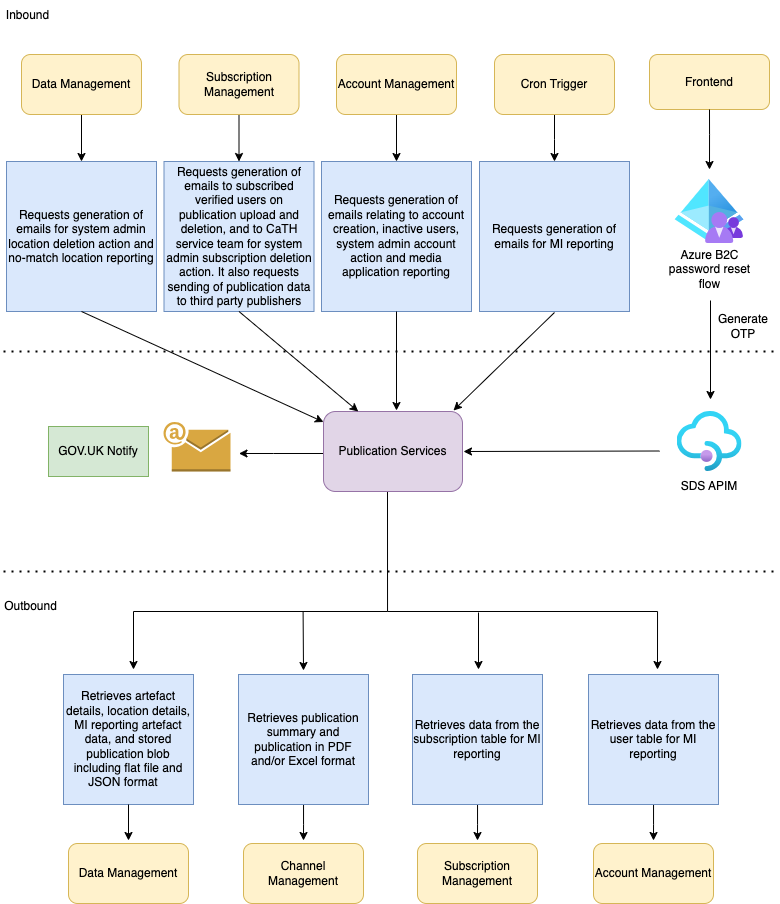
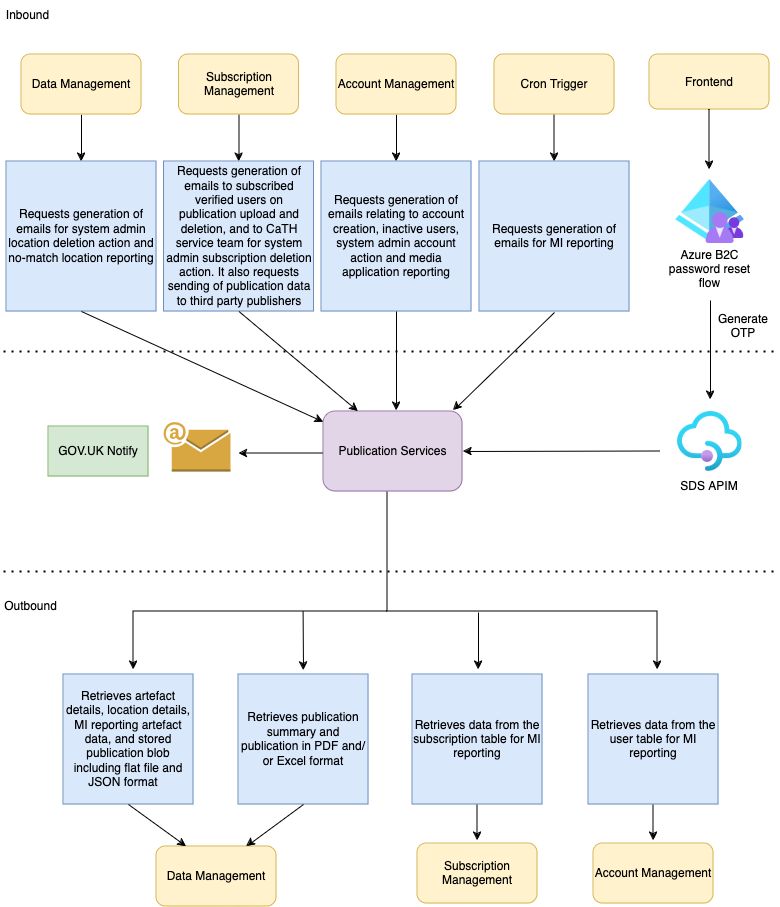
PUB-2359 Removed calls to channel-management (#447)
* Removed calls to channel-management

* Bumping chart version/ fixing aliases

* Fixed checkstyle

* Update readme diagram

* Update format of publication file endpoints

* Bumping chart version/ fixing aliases

---------

diff --git a/src/test/java/uk/gov/hmcts/reform/pip/publication/services/service/DataManagementServiceTest.java b/src/test/java/uk/gov/hmcts/reform/pip/publication/services/service/DataManagementServiceTest.java
@@ -1,5 +1,8 @@
 package uk.gov.hmcts.reform.pip.publication.services.service;
 
+import com.fasterxml.jackson.core.JsonProcessingException;
+import com.fasterxml.jackson.databind.ObjectMapper;
+import com.fasterxml.jackson.databind.ObjectWriter;
 import okhttp3.mockwebserver.MockResponse;
 import okhttp3.mockwebserver.MockWebServer;
 import org.apache.http.entity.ContentType;
@@ -13,6 +16,7 @@ import org.springframework.test.context.ActiveProfiles;
 import org.springframework.web.reactive.function.client.WebClient;
 import uk.gov.hmcts.reform.pip.model.location.Location;
 import uk.gov.hmcts.reform.pip.model.publication.Artefact;
+import uk.gov.hmcts.reform.pip.model.publication.FileType;
 import uk.gov.hmcts.reform.pip.publication.services.Application;
 import uk.gov.hmcts.reform.pip.publication.services.configuration.WebClientTestConfiguration;
 import uk.gov.hmcts.reform.pip.publication.services.errorhandling.exceptions.ServiceToServiceException;
@@ -30,7 +34,6 @@ import static org.junit.jupiter.api.Assertions.assertTrue;
 @DirtiesContext
 @ActiveProfiles("test")
 class DataManagementServiceTest extends RedisConfigurationTestBase {
-
     private static final String RESPONSE_BODY = "responseBody";
     private static final String CONTENT_TYPE_HEADER = "Content-Type";
     private static final String EXCEPTION_THROWN_MESSAGE = "Expected exception has not been thrown";
@@ -43,6 +46,10 @@ class DataManagementServiceTest extends RedisConfigurationTestBase {
     private static final String NO_STATUS_CODE_IN_EXCEPTION = "Exception response does not contain the status code in"
         + " the message";
     private static final String NO_EXPECTED_EXCEPTION = "Expected exception has not been thrown.";
+    private static final String HELLO = "hello";
+
+    private final ObjectWriter ow = new ObjectMapper().findAndRegisterModules().writer().withDefaultPrettyPrinter();
+
 
     @Autowired
     WebClient webClient;
@@ -183,6 +190,69 @@ class DataManagementServiceTest extends RedisConfigurationTestBase {
                                                        NO_EXPECTED_EXCEPTION);
         assertTrue(notifyException.getMessage().contains(NOT_FOUND),
                    NO_STATUS_CODE_IN_EXCEPTION);
+    }
+
+    @Test
+    void testGetArtefactSummary() {
+        mockDataManagementEndpoint.enqueue(new MockResponse().addHeader(
+            "Content-Type",
+            com.azure.core.http.ContentType.APPLICATION_JSON
+        ).setBody(HELLO));
+
+        String returnedString = dataManagementService.getArtefactSummary(UUID.randomUUID());
+
+        assertEquals(HELLO, returnedString, "Return does not match");
+    }
+
+    @Test
+    void testGetArtefactSummaryError() {
+        mockDataManagementEndpoint.enqueue(new MockResponse().setResponseCode(404));
+
+        UUID artefactId = UUID.randomUUID();
+        ServiceToServiceException exception = assertThrows(ServiceToServiceException.class,
+                                                           () -> dataManagementService.getArtefactSummary(artefactId),
+                                                           "Exception");
+
+        assertTrue(exception.getMessage().contains("404"), "Exception didn't contain correct message");
+    }
+
+    @Test
+    void testGetArtefactFile() throws JsonProcessingException {
+        mockDataManagementEndpoint.enqueue(
+            new MockResponse()
+                .addHeader("Content-Type", com.azure.core.http.ContentType.APPLICATION_JSON)
+                .setBody(ow.writeValueAsString(HELLO))
+        );
+
+        String response = dataManagementService.getArtefactFile(UUID.randomUUID(), FileType.PDF, true);
+        assertTrue(response.length() > 0, "Response doesn't exist");
+    }
+
+    @Test
+    void testGetArtefactFileNotFound() {
+        mockDataManagementEndpoint.enqueue(new MockResponse().setResponseCode(404));
+
+        String response = dataManagementService.getArtefactFile(UUID.randomUUID(), FileType.EXCEL, false);
+        assertEquals(0, response.length(), "Response not empty");
+    }
+
+    @Test
+    void testGetArtefactFileTooLarge() {
+        mockDataManagementEndpoint.enqueue(new MockResponse().setResponseCode(413));
+
+        String response = dataManagementService.getArtefactFile(UUID.randomUUID(), FileType.PDF, false);
+        assertEquals(0, response.length(), "Response not empty");
+    }
+
+    @Test
+    void testGetArtefactFileError() {
+        mockDataManagementEndpoint.enqueue(new MockResponse().setResponseCode(500));
+
+        UUID artefactId = UUID.randomUUID();
+        ServiceToServiceException exception = assertThrows(ServiceToServiceException.class, () ->
+            dataManagementService.getArtefactFile(artefactId, FileType.PDF, false), "Exception");
+
+        assertTrue(exception.getMessage().contains("500"), "Exception didn't contain correct message");
     }
 
     @Test

diff --git a/src/main/java/uk/gov/hmcts/reform/pip/publication/services/service/DataManagementService.java b/src/main/java/uk/gov/hmcts/reform/pip/publication/services/service/DataManagementService.java
@@ -9,9 +9,13 @@ import org.springframework.web.reactive.function.client.WebClient;
 import org.springframework.web.reactive.function.client.WebClientResponseException;
 import uk.gov.hmcts.reform.pip.model.location.Location;
 import uk.gov.hmcts.reform.pip.model.publication.Artefact;
+import uk.gov.hmcts.reform.pip.model.publication.FileType;
 import uk.gov.hmcts.reform.pip.publication.services.errorhandling.exceptions.ServiceToServiceException;
 
 import java.util.UUID;
+
+import static org.springframework.http.HttpStatus.NOT_FOUND;
+import static org.springframework.http.HttpStatus.PAYLOAD_TOO_LARGE;
 
 @Slf4j
 @Service
@@ -20,7 +24,10 @@ public class DataManagementService {
 
     private static final String SERVICE = "Data Management";
     private static final String ADMIN_HEADER = "x-admin";
+    private static final String SYSTEM_HEADER = "x-system";
+    private static final String ADDITIONAL_PDF_HEADER = "x-additional-pdf";
     private static final String TRUE = "true";
+    private static final int MAX_FILE_SIZE = 2_000_000;
 
     @Value("${service-to-service.data-management}")
     private String url;
@@ -72,6 +79,36 @@ public class DataManagementService {
                 .accept(MediaType.APPLICATION_JSON)
                 .retrieve().bodyToMono(String.class).block();
         } catch (WebClientResponseException ex) {
+            throw new ServiceToServiceException(SERVICE, ex.getMessage());
+        }
+    }
+
+    public String getArtefactSummary(UUID artefactId) {
+        try {
+            return webClient.get().uri(String.format("%s/publication/%s/summary", url, artefactId))
+                .accept(MediaType.APPLICATION_JSON)
+                .retrieve().bodyToMono(String.class)
+                .block();
+        } catch (WebClientResponseException ex) {
+            throw new ServiceToServiceException(SERVICE, ex.getMessage());
+        }
+    }
+
+    public String getArtefactFile(UUID artefactId, FileType fileType, boolean additionalPdf) {
+        try {
+            return webClient.get()
+                .uri(String.format("%s/publication/%s/%s?maxFileSize=%s", url, artefactId, fileType, MAX_FILE_SIZE))
+                .header(SYSTEM_HEADER, TRUE)
+                .header(ADDITIONAL_PDF_HEADER, String.valueOf(additionalPdf))
+                .accept(MediaType.APPLICATION_JSON)
+                .retrieve()
+                .bodyToMono(String.class)
+                .block();
+        } catch (WebClientResponseException ex) {
+            if (NOT_FOUND.equals(ex.getStatusCode())
+                || PAYLOAD_TOO_LARGE.equals(ex.getStatusCode())) {
+                return "";
+            }
             throw new ServiceToServiceException(SERVICE, ex.getMessage());
         }
     }

diff --git a/src/test/java/uk/gov/hmcts/reform/pip/publication/services/service/ThirdPartyManagementServiceTest.java b/src/test/java/uk/gov/hmcts/reform/pip/publication/services/service/ThirdPartyManagementServiceTest.java
@@ -55,9 +55,6 @@ class ThirdPartyManagementServiceTest extends RedisConfigurationTestBase {
     private DataManagementService dataManagementService;
 
     @MockBean
-    private ChannelManagementService channelManagementService;
-
-    @MockBean
     private ThirdPartyService thirdPartyService;
 
     @BeforeAll
@@ -103,7 +100,7 @@ class ThirdPartyManagementServiceTest extends RedisConfigurationTestBase {
         when(dataManagementService.getArtefact(RAND_UUID)).thenReturn(ARTEFACT);
         when(dataManagementService.getLocation(LOCATION_ID.toString())).thenReturn(LOCATION);
         when(dataManagementService.getArtefactJsonBlob(RAND_UUID)).thenReturn(jsonPayload);
-        when(channelManagementService.getArtefactFile(eq(RAND_UUID), any(), anyBoolean())).thenReturn(base64EncodedPdf);
+        when(dataManagementService.getArtefactFile(eq(RAND_UUID), any(), anyBoolean())).thenReturn(base64EncodedPdf);
         when(thirdPartyService.handleJsonThirdPartyCall(API_DESTINATION, jsonPayload, ARTEFACT, LOCATION))
             .thenReturn(SUCCESS_REF_ID);
         when(thirdPartyService.handlePdfThirdPartyCall(API_DESTINATION, pdfInBytes, ARTEFACT, LOCATION))
@@ -116,7 +113,7 @@ class ThirdPartyManagementServiceTest extends RedisConfigurationTestBase {
         assertEquals(SUCCESS_API_SENT, thirdPartyManagementService.handleThirdParty(subscription),
                      "Api subscription with json file should return successful referenceId.");
 
-        verify(channelManagementService).getArtefactFile(RAND_UUID, FileType.PDF, expectedAdditionalPdf);
+        verify(dataManagementService).getArtefactFile(RAND_UUID, FileType.PDF, expectedAdditionalPdf);
         verify(thirdPartyService).handlePdfThirdPartyCall(API_DESTINATION, pdfInBytes, ARTEFACT, LOCATION);
     }
 
@@ -143,7 +140,7 @@ class ThirdPartyManagementServiceTest extends RedisConfigurationTestBase {
         when(dataManagementService.getArtefact(RAND_UUID)).thenReturn(ARTEFACT);
         when(dataManagementService.getLocation(LOCATION_ID.toString())).thenReturn(LOCATION);
         when(dataManagementService.getArtefactJsonBlob(RAND_UUID)).thenReturn(jsonPayload);
-        when(channelManagementService.getArtefactFile(RAND_UUID, FileType.PDF, false)).thenReturn(base64EncodedPdf);
+        when(dataManagementService.getArtefactFile(RAND_UUID, FileType.PDF, false)).thenReturn(base64EncodedPdf);
         when(thirdPartyService.handleJsonThirdPartyCall(API_DESTINATION, jsonPayload, ARTEFACT, LOCATION))
             .thenReturn(SUCCESS_REF_ID);
 

diff --git a/src/main/java/uk/gov/hmcts/reform/pip/publication/services/service/SubscriptionNotificationService.java b/src/main/java/uk/gov/hmcts/reform/pip/publication/services/service/SubscriptionNotificationService.java
@@ -27,7 +27,6 @@ import static uk.gov.hmcts.reform.pip.model.LogBuilder.writeLog;
 public class SubscriptionNotificationService {
     private final EmailService emailService;
     private final DataManagementService dataManagementService;
-    private final ChannelManagementService channelManagementService;
 
     @Value("${payload.json.max-size-in-kb}")
     private int maxPayloadSize;
@@ -36,11 +35,9 @@ public class SubscriptionNotificationService {
     private int fileRetentionWeeks;
 
     @Autowired
-    public SubscriptionNotificationService(EmailService emailService, DataManagementService dataManagementService,
-                                           ChannelManagementService channelManagementService) {
+    public SubscriptionNotificationService(EmailService emailService, DataManagementService dataManagementService) {
         this.emailService = emailService;
         this.dataManagementService = dataManagementService;
-        this.channelManagementService = channelManagementService;
     }
 
     private String flatFileSubscriptionEmailRequest(SubscriptionEmail body, Artefact artefact,
@@ -121,14 +118,14 @@ public class SubscriptionNotificationService {
 
     private String getArtefactSummary(Artefact artefact) {
         if (payloadWithinLimit(artefact.getPayloadSize())) {
-            return channelManagementService.getArtefactSummary(artefact.getArtefactId());
+            return dataManagementService.getArtefactSummary(artefact.getArtefactId());
         }
         return "";
     }
 
     private byte[] getFileBytes(Artefact artefact, FileType fileType, boolean additionalPdf) {
         if (payloadWithinLimit(artefact.getPayloadSize())) {
-            String artefactFile = channelManagementService.getArtefactFile(artefact.getArtefactId(),
+            String artefactFile = dataManagementService.getArtefactFile(artefact.getArtefactId(),
                                                                            fileType, additionalPdf);
             return Base64.getDecoder().decode(artefactFile);
         }

diff --git a/src/main/java/uk/gov/hmcts/reform/pip/publication/services/service/ThirdPartyManagementService.java b/src/main/java/uk/gov/hmcts/reform/pip/publication/services/service/ThirdPartyManagementService.java
@@ -20,17 +20,12 @@ public class ThirdPartyManagementService {
     private static final String EMPTY_SUCCESS_MESSAGE = "Successfully sent empty list to %s";
 
     private final DataManagementService dataManagementService;
-
-    private final ChannelManagementService channelManagementService;
-
     private final ThirdPartyService thirdPartyService;
 
     @Autowired
     public ThirdPartyManagementService(DataManagementService dataManagementService,
-                                       ChannelManagementService channelManagementService,
                                        ThirdPartyService thirdPartyService) {
         this.dataManagementService = dataManagementService;
-        this.channelManagementService = channelManagementService;
         this.thirdPartyService = thirdPartyService;
     }
 
@@ -79,12 +74,12 @@ public class ThirdPartyManagementService {
         boolean additionalPdf = artefact.getListType().hasAdditionalPdf()
             && artefact.getLanguage() != Language.ENGLISH;
 
-        byte[] pdf = channelManagementService.getArtefactFile(artefact.getArtefactId(), FileType.PDF, additionalPdf)
+        byte[] pdf = dataManagementService.getArtefactFile(artefact.getArtefactId(), FileType.PDF, additionalPdf)
             .getBytes();
         if (pdf.length == 0) {
             log.warn(writeLog("Empty PDF not sent to third party"));
         } else {
-            // The PDF returned from channel management is returned as Base 64.
+            // The PDF returned from data-management is returned as Base 64.
             // This is then decoded here before sending to third parties.
             log.info(writeLog(thirdPartyService.handlePdfThirdPartyCall(
                 api, Base64.decodeBase64(pdf), artefact, location)));

diff --git a/src/test/java/uk/gov/hmcts/reform/pip/publication/services/service/SubscriptionNotificationServiceTest.java b/src/test/java/uk/gov/hmcts/reform/pip/publication/services/service/SubscriptionNotificationServiceTest.java
@@ -78,9 +78,6 @@ class SubscriptionNotificationServiceTest extends RedisConfigurationTestBase {
     @MockBean
     private DataManagementService dataManagementService;
 
-    @MockBean
-    private ChannelManagementService channelManagementService;
-
     @Autowired
     private SubscriptionNotificationService notificationService;
 
@@ -113,10 +110,10 @@ class SubscriptionNotificationServiceTest extends RedisConfigurationTestBase {
         when(sendEmailResponse.getReference()).thenReturn(Optional.of(SUCCESS_REF_ID));
         when(emailService.sendEmail(any())).thenReturn(sendEmailResponse);
 
-        when(channelManagementService.getArtefactFile(ARTEFACT_ID, FileType.PDF, false)).thenReturn(FILE_CONTENT);
-        when(channelManagementService.getArtefactFile(ARTEFACT_ID, FileType.PDF, true)).thenReturn(FILE_CONTENT);
-        when(channelManagementService.getArtefactSummary(ARTEFACT_ID)).thenReturn(ARTEFACT_SUMMARY);
-        when(channelManagementService.getArtefactFile(ARTEFACT_ID, FileType.EXCEL, false)).thenReturn(FILE_CONTENT);
+        when(dataManagementService.getArtefactFile(ARTEFACT_ID, FileType.PDF, false)).thenReturn(FILE_CONTENT);
+        when(dataManagementService.getArtefactFile(ARTEFACT_ID, FileType.PDF, true)).thenReturn(FILE_CONTENT);
+        when(dataManagementService.getArtefactSummary(ARTEFACT_ID)).thenReturn(ARTEFACT_SUMMARY);
+        when(dataManagementService.getArtefactFile(ARTEFACT_ID, FileType.EXCEL, false)).thenReturn(FILE_CONTENT);
         when(dataManagementService.getArtefactFlatFile(ARTEFACT_ID)).thenReturn(ARTEFACT_FLAT_FILE);
     }
 

diff --git a/src/test/java/uk/gov/hmcts/reform/pip/publication/services/service/NotificationServiceTest.java b/src/test/java/uk/gov/hmcts/reform/pip/publication/services/service/NotificationServiceTest.java
@@ -121,9 +121,6 @@ class NotificationServiceTest extends RedisConfigurationTestBase {
     private DataManagementService dataManagementService;
 
     @MockBean
-    private ChannelManagementService channelManagementService;
-
-    @MockBean
     private FileCreationService fileCreationService;
 
     @MockBean
@@ -163,10 +160,10 @@ class NotificationServiceTest extends RedisConfigurationTestBase {
         when(dataManagementService.getArtefact(ARTEFACT_ID)).thenReturn(artefact);
         when(dataManagementService.getLocation(String.valueOf(LOCATION_ID))).thenReturn(location);
         when(dataManagementService.getArtefactFlatFile(ARTEFACT_ID)).thenReturn(ARTEFACT_FLAT_FILE);
-        when(channelManagementService.getArtefactSummary(ARTEFACT_ID)).thenReturn(ARTEFACT_SUMMARY);
-        when(channelManagementService.getArtefactFile(ARTEFACT_ID, FileType.PDF, false))
+        when(dataManagementService.getArtefactSummary(ARTEFACT_ID)).thenReturn(ARTEFACT_SUMMARY);
+        when(dataManagementService.getArtefactFile(ARTEFACT_ID, FileType.PDF, false))
             .thenReturn(FILE_CONTENT);
-        when(channelManagementService.getArtefactFile(ARTEFACT_ID, FileType.EXCEL, false))
+        when(dataManagementService.getArtefactFile(ARTEFACT_ID, FileType.EXCEL, false))
             .thenReturn(FILE_CONTENT);
     }
 

diff --git a/src/main/java/uk/gov/hmcts/reform/pip/publication/services/config/WebClientConfiguration.java b/src/main/java/uk/gov/hmcts/reform/pip/publication/services/config/WebClientConfiguration.java
@@ -29,7 +29,7 @@ import javax.net.ssl.SSLException;
 @Configuration
 @Profile("!test & !functional & !functional-rate-limit")
 public class WebClientConfiguration {
-    // Currently we allow a maximum 2MB of PDF/Excel file to be transferred from Channel-management (same as GOV.UK
+    // Currently we allow a maximum 2MB of PDF/Excel file to be transferred from data-management (same as GOV.UK
     // Notify file size constraint). The file content is sent as a Base64 encoded string which add roughly 33% space
     // overhead. Hence we increase the service-to-service size constraint to 3MB.
     private static final ExchangeStrategies STRATEGIES =  ExchangeStrategies.builder()

diff --git a/README.md b/README.md
@@ -79,20 +79,20 @@ CaTH verified users are able to add email subscriptions to new publications usin
 - `pip-publication-services` then retrieves the publication metadata from `pip-data-management` and determine whether the publication has been uploaded as a flat file or in JSON format.
 - If the publication was uploaded as a flat file, it will retrieve the uploaded file from Azure blob storage through `pip-data-management`.
 - If the publication was uploaded in JSON format and the JSON payload is less than the set limit (currently default to 2MB), it will:
-  - generate the publication summary information through `pip-channel-management`.
-  - retrieve the files in alternative publishing formats (PDF and/or Excel spreadsheet) through `pip-channel-management`. These files are pre-generated and stored in Azure blob storage during the upload process.
+  - generate the publication summary information through `pip-data-management`.
+  - retrieve the files in alternative publishing formats (PDF and/or Excel spreadsheet) through `pip-data-management`. These files are pre-generated and stored in Azure blob storage during the upload process.
 - The email will be personalised using the information above by means by placeholders. Any required files will be uploaded to GOV.UK Notify and links to download the files will be provided in the emails.
 - All the required email information will be sent to GOV.UK Notify to generate the emails for the subscribers.
 
 ### Third Party Publisher
 
-When a new publication is uploaded to CaTH, `pip-subscription-management` retrieves all the third party publishers for that publication through `pip-channel-management`. The allowed third party users (also known as `channel`) for that publication is determined using the user roles in relation to the list type being published (can be press, CFT or crime lists). It will then notify `pip-publication-services`, passing in the Artefact ID and the third party API destination, so the publication can be sent to its destination.
+When a new publication is uploaded to CaTH, `pip-subscription-management` retrieves all the third party publishers for that publication. The allowed third party users (also known as `channel`) for that publication is determined using the user roles in relation to the list type being published (can be press, CFT or crime lists). It will then notify `pip-publication-services`, passing in the Artefact ID and the third party API destination, so the publication can be sent to its destination.
 
 Currently [Courtel](https://www.courtserve.net/) is the only third party publisher configured for CaTH but the service is able to send publications to multiple third party channels if we have more publishers.
 
 If the publication was uploaded as a flat file, the same file will be retrieved from Azure blob storage through `pip-data-management`, and forwarded to Courtel in multipart/form-data format.
 
-If the publication was uploaded in JSON format, the original content will be sent to Courtel in JSON format. The service will also retrieve the stored PDF from Azure blob storage through `pip-channel-management`, and make a second call to the Courtel API attaching the PDF in multipart/form-data format.
+If the publication was uploaded in JSON format, the original content will be sent to Courtel in JSON format. The service will also retrieve the stored PDF from Azure blob storage through `pip-data-management`, and make a second call to the Courtel API attaching the PDF in multipart/form-data format.
 
 Courtel will also be notified if publications sent to them have been deleted by CaTH.
 
@@ -167,11 +167,9 @@ Below is a table of currently used environment variables for starting the servic
 | CLIENT_SECRET                     | Secret key for authentication requests to the service.                                                                                                                                                                                                             | No        |
 | ACCOUNT_MANAGEMENT_URL            | URL used for connecting to the pip-account-management service. Defaults to staging if not provided.                                                                                                                                                                | No        |
 | DATA_MANAGEMENT_URL               | URL used for connecting to the pip-data-management service. Defaults to staging if not provided.                                                                                                                                                                   | No        |
-| CHANNEL_MANAGEMENT_URL            | URL used for connecting to the pip-channel-management service. Defaults to staging if not provided.                                                                                                                                                                | No        |
 | SUBSCRIPTION_MANAGEMENT_URL       | URL used for connecting to the pip-subscription-management service. Defaults to staging if not provided.                                                                                                                                                           | No        |
 | ACCOUNT_MANAGEMENT_AZ_API         | Used as part of the `scope` parameter when requesting a token from Azure. Used for service-to-service communication with the pip-account management service.                                                                                                       | No        |
 | DATA_MANAGEMENT_AZ_API            | Used as part of the `scope` parameter when requesting a token from Azure. Used for service-to-service communication with the pip-data-management service.                                                                                                          | No        |
-| CHANNEL_MANAGEMENT_AZ_API         | Used as part of the `scope` parameter when requesting a token from Azure. Used for service-to-service communication with the pip-channel management service.                                                                                                       | No        |
 | SUBSCRIPTION_MANAGEMENT_AZ_API    | Used as part of the `scope` parameter when requesting a token from Azure. Used for service-to-service communication with the pip-subscription-management service.                                                                                                  | No        |
 | NOTIFY_API_KEY                    | Used in the authorisation header for interaction with GOV.UK notify client. The API key follows the format {key_name}-{iss-uuid}-{secret-key-uuid}. When running the service locally we should not use the live key. Only test or team API key should be used.     | Yes       |
 | PI_TEAM_EMAIL                     | The email address for sending CaTH reporting emails (e.g. media applications, mi reports, unindentified blobs) to.                                                                                                                                                 | No        |
@@ -197,7 +195,6 @@ Secrets required for getting integration tests to run correctly can be found in 
 | TENANT_ID                      | As above                                                                       |
 | ACCOUNT_MANAGEMENT_AZ_API      | As above                                                                       |
 | DATA_MANAGEMENT_AZ_API         | As above                                                                       |
-| CHANNEL_MANAGEMENT_AZ_API      | As above                                                                       |
 | SUBSCRIPTION_MANAGEMENT_AZ_API | As above                                                                       |
 | NOTIFY_API_KEY                 | As above. Only the test API key should be used when running integration tests. |
 | PI_TEAM_EMAIL                  | As above                                                                       |
